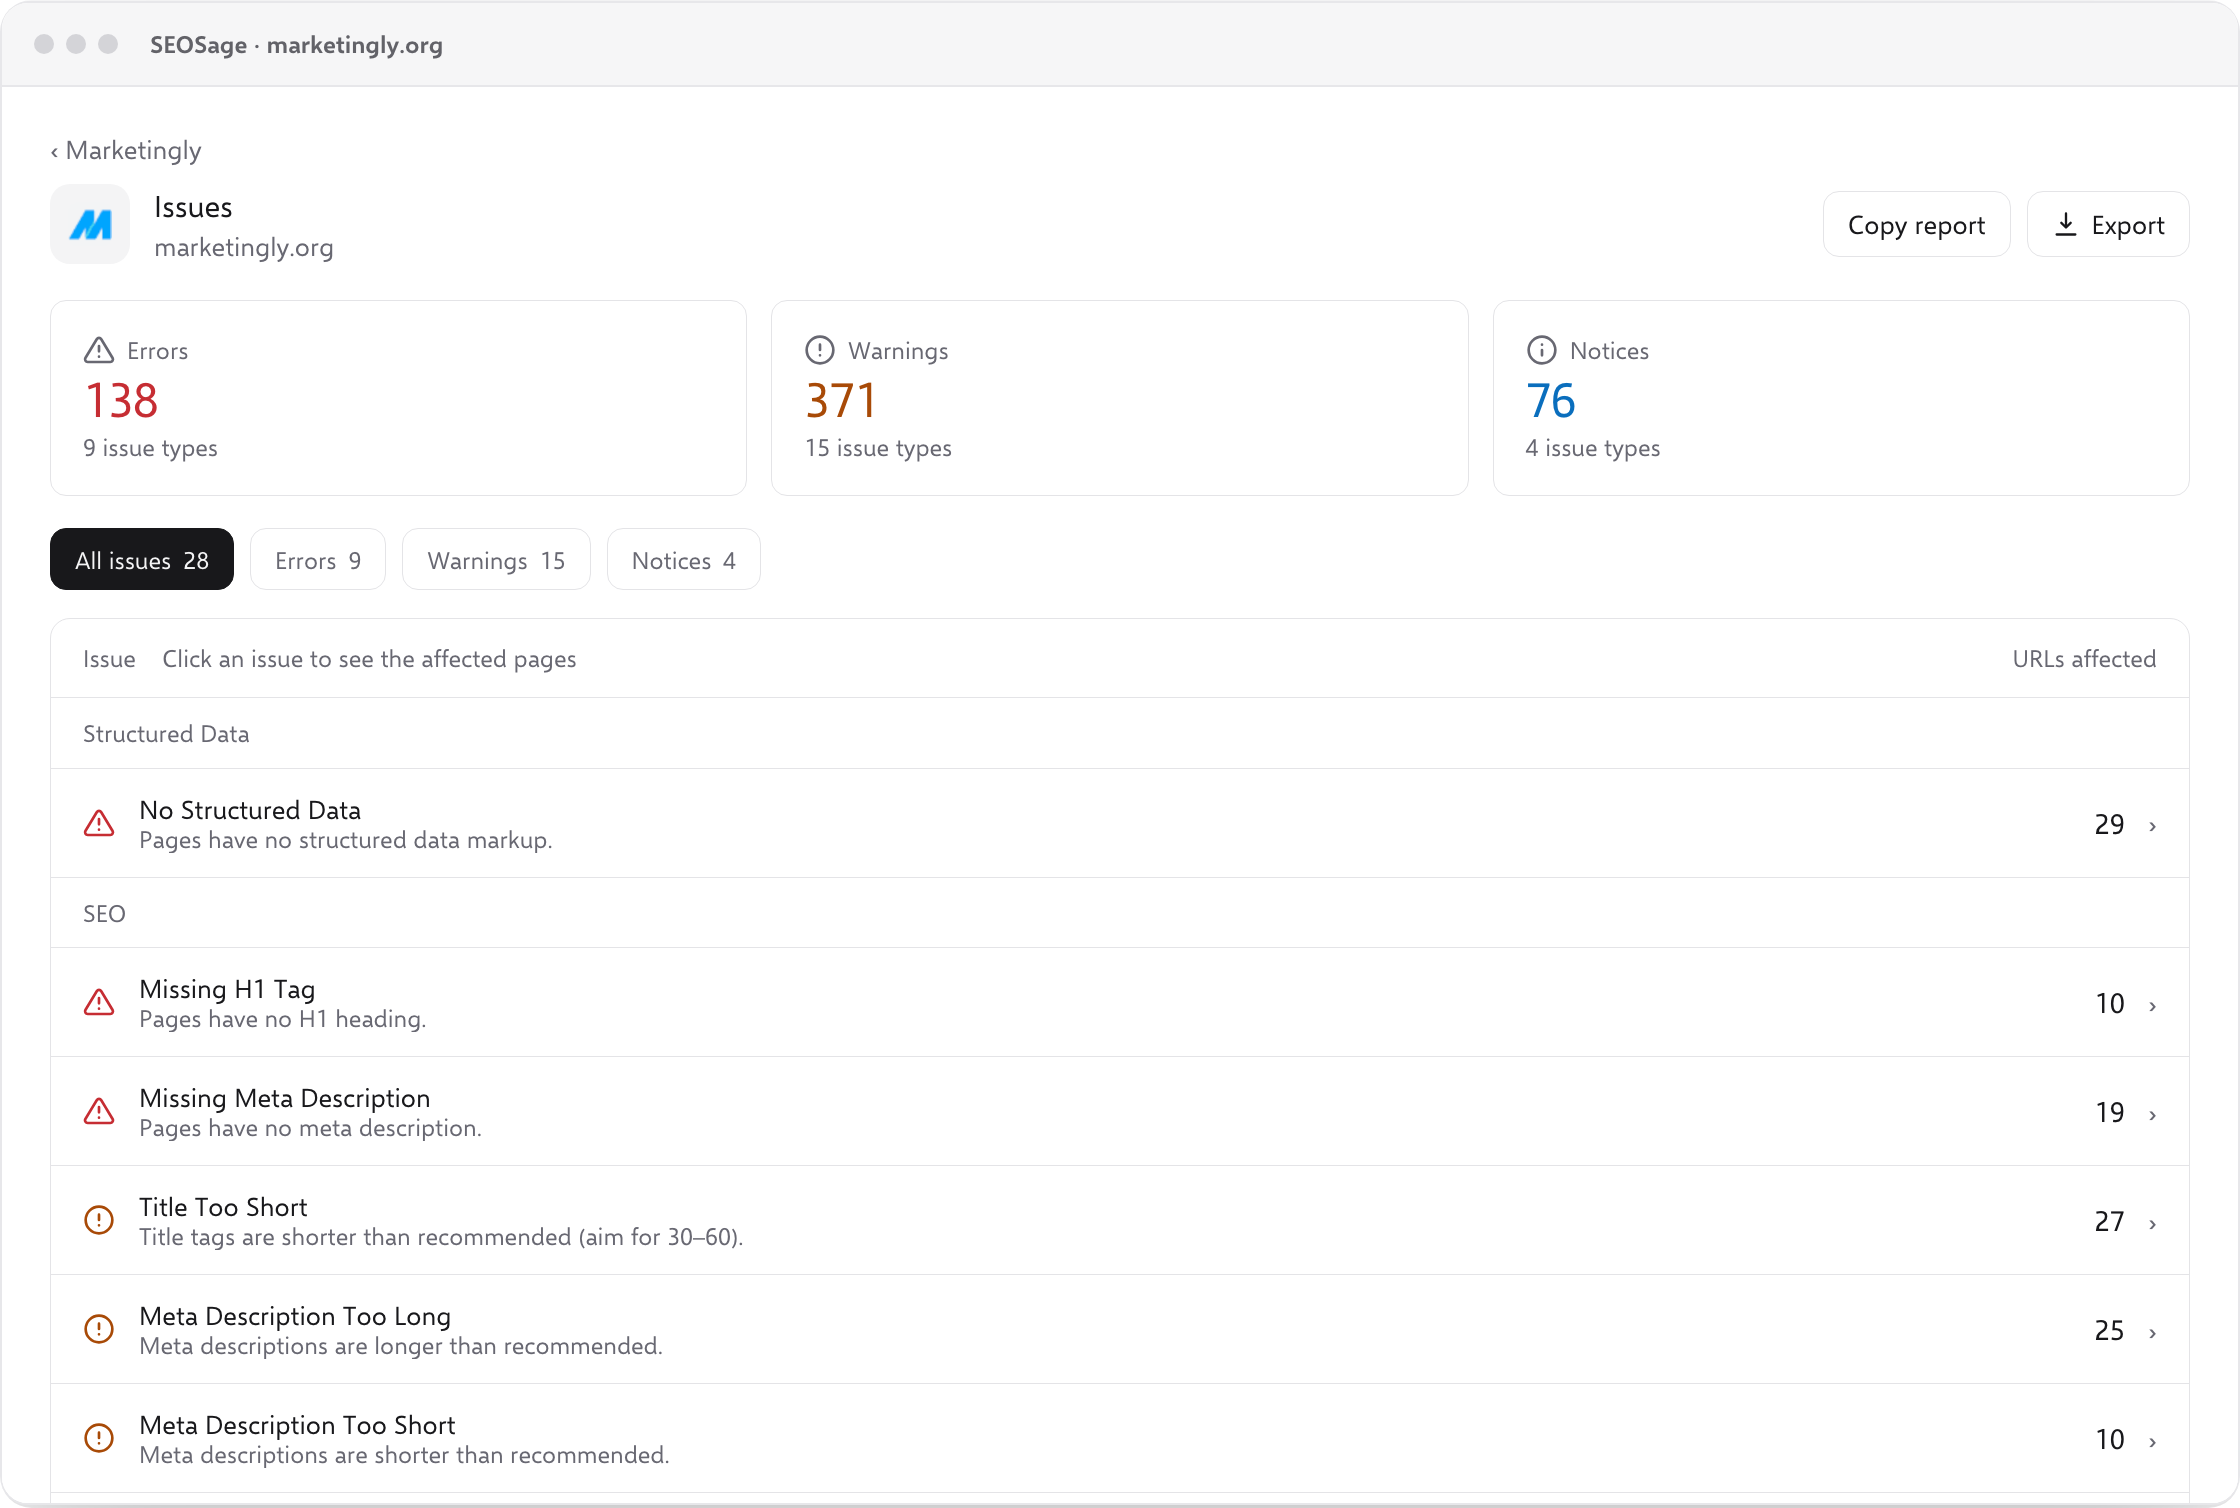
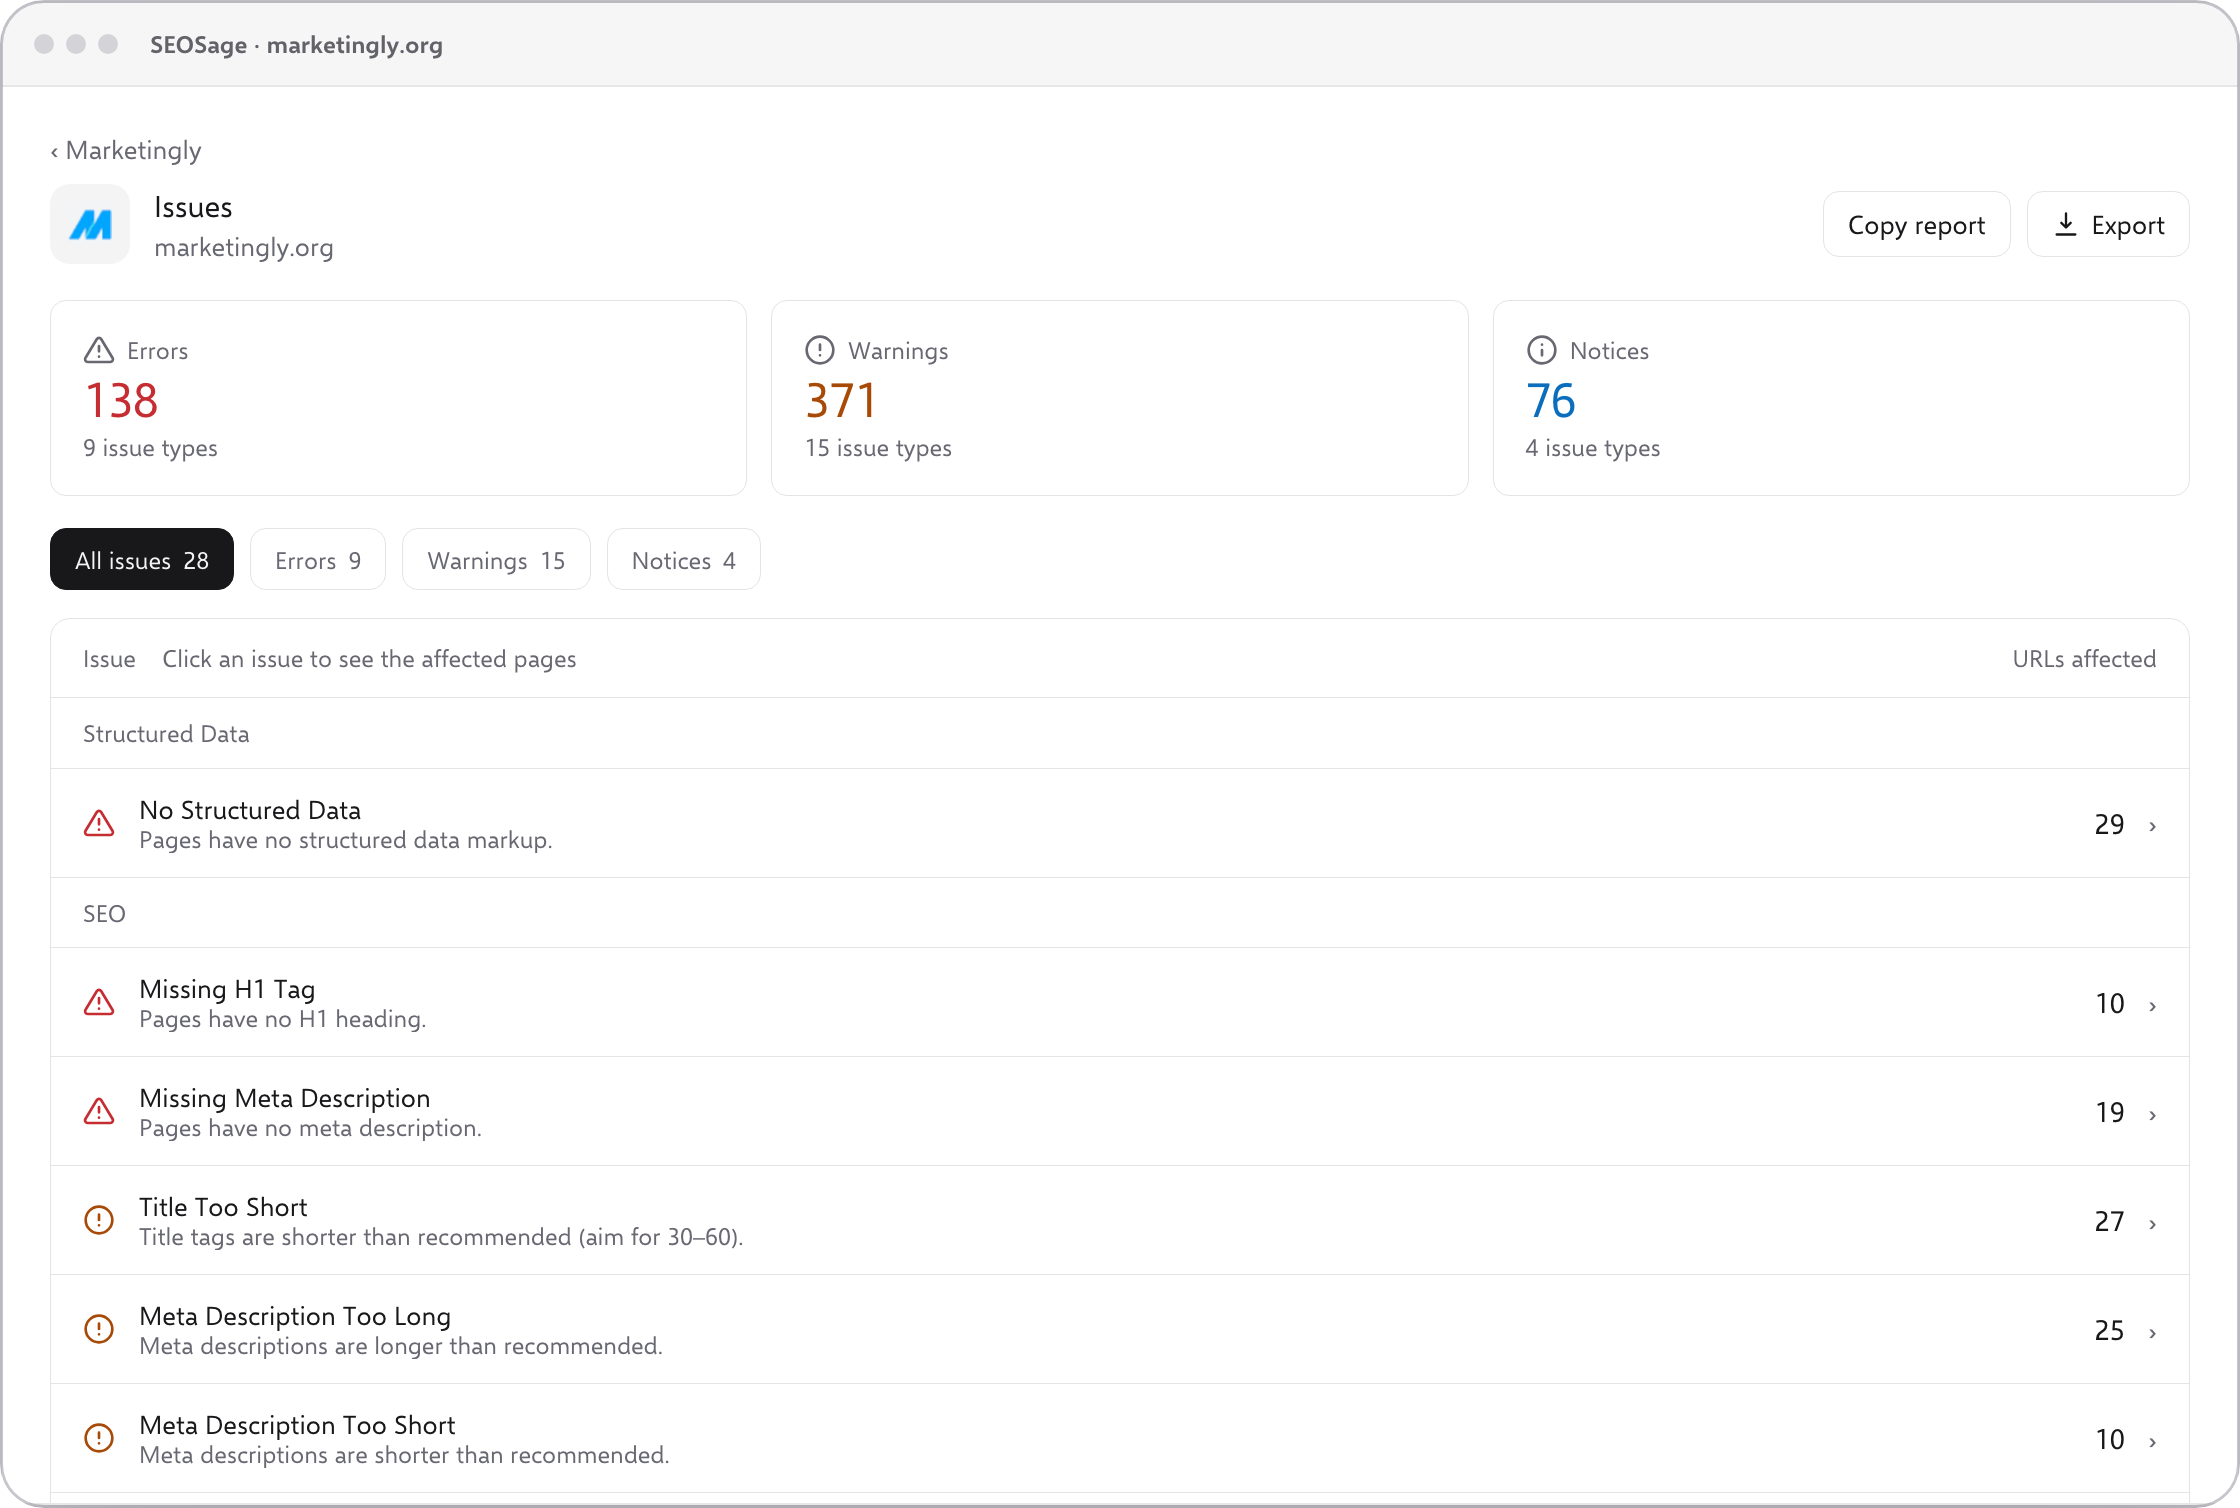
Visible rounded edge on the README images, cache-busted

Changed region(s): [[0.0, 0.9973, 1.0, 1.0]]

diff --git a/README.md b/README.md
@@ -1,5 +1,5 @@
 <p align="center">
-  <a href="https://seosage.co/"><img src="assets/banner.png" alt="SEOSage app for Mac: install the desktop SEO audit software with one Homebrew command" width="100%"></a>
+  <a href="https://seosage.co/"><img src="assets/banner.png?v=3" alt="SEOSage app for Mac: install the desktop SEO audit software with one Homebrew command" width="100%"></a>
 </p>
 
 # SEOSage app for Mac: Homebrew install
@@ -10,7 +10,7 @@ This repository is the official [Homebrew](https://brew.sh) tap for the SEOSage 
 
 ## Install
 
-<p align="center"><img src="assets/install.png" alt="Terminal showing the brew commands to install, update and remove the SEOSage app" width="80%"></p>
+<p align="center"><img src="assets/install.png?v=3" alt="Terminal showing the brew commands to install, update and remove the SEOSage app" width="80%"></p>
 
 ```sh
 brew install --cask deepaksabharwaal/seosage/seosage
@@ -34,9 +34,9 @@ Works on Apple Silicon (M1, M2, M3, M4) and Intel Macs. Homebrew picks the right
 
 Crawl a whole site, see every issue grouped by type, click one to see the pages it affects, then export a report for your client. The screens below are from a real crawl of [marketingly.org](https://marketingly.org/).
 
-<p align="center"><img src="assets/screen-issues.png" alt="SEOSage app Issues screen listing errors, warnings and notices from a full site crawl" width="90%"></p>
+<p align="center"><img src="assets/screen-issues.png?v=3" alt="SEOSage app Issues screen listing errors, warnings and notices from a full site crawl" width="90%"></p>
 
-<p align="center"><img src="assets/screen-report.png" alt="SEOSage app Reports screen with site health score and export to CSV, PDF or PowerPoint" width="90%"></p>
+<p align="center"><img src="assets/screen-report.png?v=3" alt="SEOSage app Reports screen with site health score and export to CSV, PDF or PowerPoint" width="90%"></p>
 
 ## Licence
 
